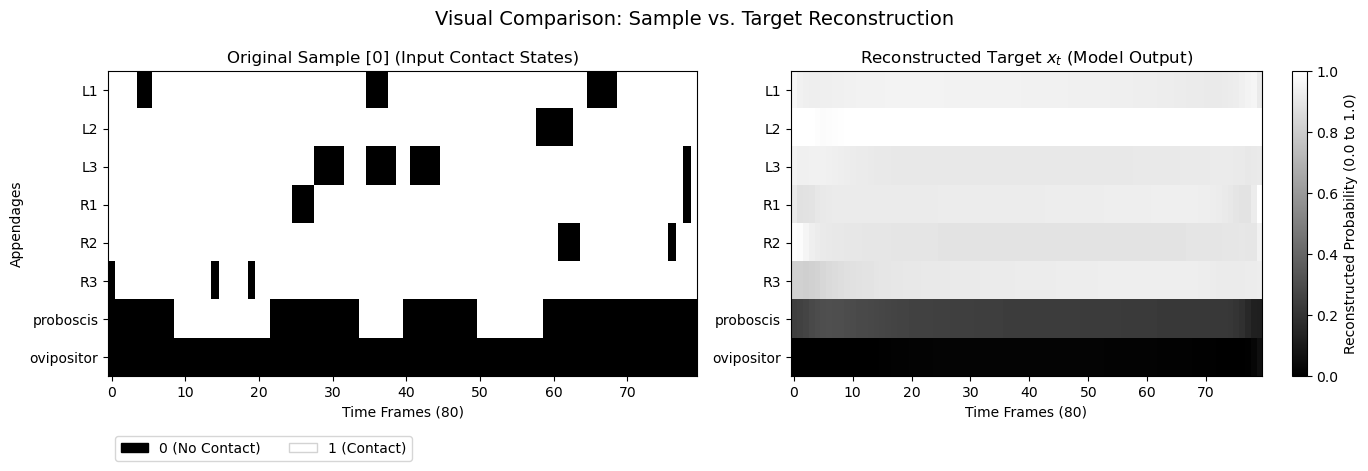
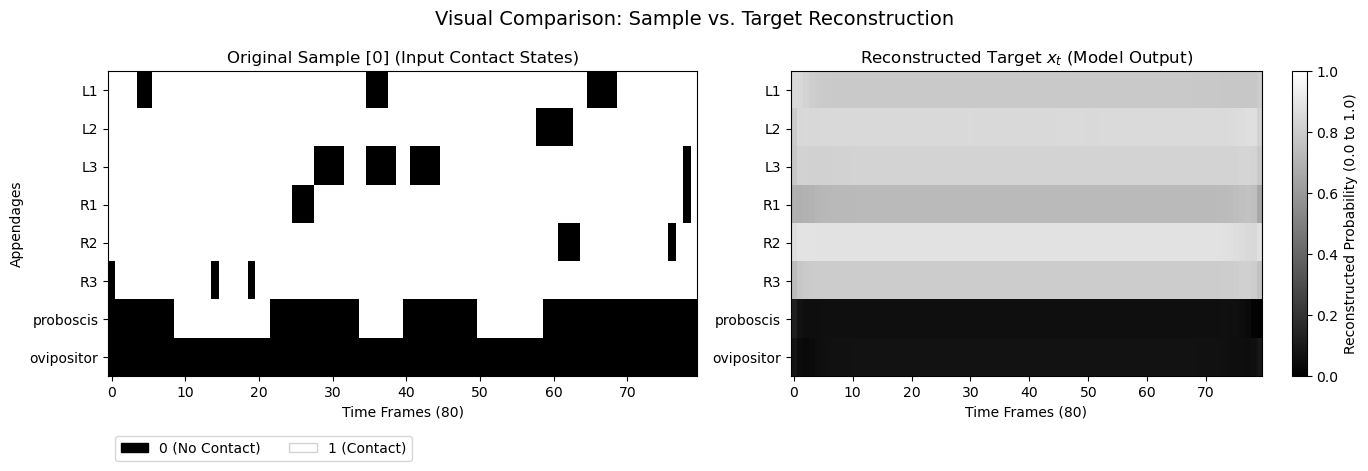
Added commented string and cleaned the structure of files- custom_dataloader.py dataset_generator.py preprocessin.py and Heatmap plotted (3 samples of data).

Changed region(s): [[0.5526, 0.1486, 0.9211, 0.535], [0.5526, 0.535, 0.9211, 0.7431]]

diff --git a/src/custom_dataloader.py b/src/custom_dataloader.py
@@ -1,3 +1,21 @@
+''' 
+This file intended to load the generated data (training and testing sets)
+formatted them inot tensors, 
+Initialize RNN_VAE and RNN_VAE.train() with the data generted 
+and plotted the input values with the reconstruction, 
+suitable parameters of the model is set in config.yaml
+
+This script intentionally bypasses the high-level `vame.train_model` wrapper. 
+The standard VAME dataloader attempts to dynamically group continuous data, which
+causing a tensor dimension crash.
+Instead, this script directly initializes the core RNN_VAE PyTorch architecture 
+and uses a custom DataLoader to feed it our specifically pre-formatted 
+3D tensor (Batch x 80 frames x 8 appendages).
+'''
+
+
+
+
 import torch
 import numpy as np
 from torch.utils.data import TensorDataset, DataLoader
@@ -6,17 +24,18 @@ import os
 import matplotlib.pyplot as plt
 import matplotlib.patches as mpatches
 
-
 from vame.model.rnn_model import RNN_VAE
 
 print(" Initializing Custom PyTorch Pipeline.")
 
+# Part 1 - setup
 
 device = torch.device("cuda" if torch.cuda.is_available() else "cpu")
 print(f"Hardware hooked up to: {device}")
 
-# Loading train and test tensors
+# Part 2 - Custom dataloader and Tensor conversion
 
+# Loading train and test tensors
 train_npy=np.load("/its/home/ap2037/dissertation/ssl_vame/vame_pipeline-Aug19-2026/data/train/train_seq.npy")
 test_npy=np.load("/its/home/ap2037/dissertation/ssl_vame/vame_pipeline-Aug19-2026/data/train/test_seq.npy")
 
@@ -26,16 +45,15 @@ train_tensor = torch.tensor(train_npy, dtype=torch.float32)
 test_tensor = torch.tensor(test_npy, dtype=torch.float32)
 
 # Creating TWO DataLoaders
-# We shuffle the training data so it learns general patterns
+# shuffle=True, the training data so it learns general patterns
 train_loader = DataLoader(TensorDataset(train_tensor), batch_size=32, shuffle=True)
 
-# We DO NOT shuffle the test data, because we are just evaluating it
+# shuffle=False, for the test data, because we are just evaluating it
 test_loader = DataLoader(TensorDataset(test_tensor), batch_size=32, shuffle=False)
 
+# Part 3 - Model configuration
 
-
-# 4. Load your VAME Configuration
-# Update this path to your exact project folder
+#Loading the VAME Configuration
 config_path = "/its/home/ap2037/dissertation/ssl_vame/vame_pipeline-Aug19-2026/config.yaml"
 
 yaml =YAML(typ='safe', pure=True)
@@ -44,8 +62,8 @@ with open(config_path, 'r') as file:
 
 
 print("\n Initializing VAME RNN_VAE ")
-# Initialize the Neural Network and push it to the GPU
-# unpacking the specific hyperparameters to feed the VAME architecture
+
+# unpacking the hyperparameters to feed the VAME architecture
 
 temporal_window = config['time_window'] *2 # VAME doubles this internally for its bidirectional setup
 zdims = config['zdims']
@@ -67,14 +85,15 @@ model = RNN_VAE(
     dropout_encoder, dropout_rec, dropout_pred, softplus
 ).to(device)
 
-# Training
+# Part 4 - Training
+
 # Optimizer (The mechanism that updates the model's memory)
 optimizer = torch.optim.Adam(model.parameters(), lr=config['learning_rate'])
 
 print("\nStarting the Training Loop")
 
-epochs = 100  #
-model.train() # 
+epochs = 10 # set up the value randomly
+model.train() 
 
 for epoch in range(epochs):
     total_loss = 0
@@ -82,16 +101,13 @@ for epoch in range(epochs):
     # The DataLoader automatically scoops the (32, 80, 8) batches
     for batch_idx, batch_data in enumerate(train_loader):
         
-        # 
         inputs = batch_data[0].to(device)
         
-        # 
         optimizer.zero_grad()
         
-        # 
+        # Forward pass
         reconstruction, prediction, latent_space, mu, logvar = model(inputs)
         
-        # 
         # standard Mean Squared Error (MSE) loss for this test
         loss = torch.nn.functional.mse_loss(reconstruction, inputs)
         
@@ -106,8 +122,9 @@ for epoch in range(epochs):
     avg_loss = total_loss / len(train_loader)
     print(f"Epoch [{epoch+1}/{epochs}] | Average Loss: {avg_loss:.4f}")
 
-print("\nSuccess! The custom PyTorch training loop has completed.")
+print("\n The custom PyTorch training loop has completed.")
 
+# Part 5- Testing and plotting
 
 print("\n Running Model Evaluation Test ")
 model.eval() # model to evaluation mode
@@ -123,62 +140,58 @@ with torch.no_grad():
         #Future error
         feature_errors = torch.mean((reconstruction - inputs) ** 2, dim=[0, 1]).cpu().numpy()
 
-        # Calculate test loss
+        # Calculating test loss
         test_loss = torch.nn.functional.mse_loss(reconstruction, inputs)
         print(f"Test Batch {batch_idx + 1} Loss: {test_loss.item():.4f}")
         
-        # HEATMAP GENERATION 
-        
-        # Input shape: [32, 80, 8]  sample shape becomes [80, 8] after indexing
-        # Taking the very first sample from this batch (Index 0)
-        original_sample = inputs[0].cpu().numpy() 
-        reconstructed_target = reconstruction[0].cpu().numpy()
 
-        # 
-        body_parts = ['L1', 'L2', 'L3', 'R1', 'R2', 'R3', 'proboscis', 'ovipositor']
-        fig, axes = plt.subplots(1, 2, figsize=(14, 5))
-
-        # Plotting Original Sample (Input Grid)
-        im0 = axes[0].imshow(original_sample.T, aspect='auto', cmap='gray', interpolation='nearest', vmin=0, vmax=1)
-        axes[0].set_title("Original Sample [0] (Input Contact States)")
-        axes[0].set_xlabel("Time Frames (80)")
-        axes[0].set_ylabel("Appendages")
-        axes[0].set_yticks(ticks=range(8))
-        axes[0].set_yticklabels(body_parts)
+        # --- HEATMAP GENERATION (Updated for Multiple Samples) ---
         
-        black_patch = mpatches.Patch(color='black', label='0 (No Contact)')
-        # Added a grey edge to the white patch so it's visible against the white background
-        white_patch = mpatches.Patch(facecolor='white', edgecolor='lightgray', label='1 (Contact)')
-        axes[0].legend(handles=[black_patch, white_patch], loc='lower left', bbox_to_anchor=(0, -0.3), ncol=2)
-    
-        #Plotting Reconstructed Target (Model Output)
-        im1 = axes[1].imshow(reconstructed_target.T, aspect='auto', cmap='gray', interpolation='nearest', vmin=0.0, vmax=1.0)
-        axes[1].set_title("Reconstructed Target $\t{x}_t$ (Model Output)")
-        axes[1].set_xlabel("Time Frames (80)")
-        axes[1].set_yticks(ticks=range(8))
-        axes[1].set_yticklabels(body_parts)
-        fig.colorbar(im1, ax=axes[1], label='Reconstructed Probability (0.0 to 1.0)')
-
-        plt.suptitle("Visual Comparison: Sample vs. Target Reconstruction", fontsize=14)
-        plt.tight_layout()
-        # Saving the figure to your outputs folder
-        output_path = "/its/home/ap2037/dissertation/ssl_vame/outputs/images/sample_vs_reconstruction.png"
-        plt.savefig(output_path, bbox_inches='tight')
-        plt.clf()
+        # We will extract and plot the first 3 samples from this test batch 
+        num_samples_to_plot = 3
         
-        print(f"Comparison heatmap successfully saved to: {output_path}")
-        # Plotting the feature errors
-        plt.figure(figsize=(10, 5))
-        plt.bar(body_parts, feature_errors, color='crimson', alpha=0.8)
-        plt.title("Reconstruction Error (MSE) per Appendage")
-        plt.xlabel("Appendages / Body Parts")
-        plt.ylabel("Mean Squared Error")
-        plt.grid(axis='y', linestyle='--', alpha=0.6)
+        for i in range(num_samples_to_plot):
+            
+            # Extract sample 'i' from the [32, 80, 8] batch tensor
+            original_sample = inputs[i].cpu().numpy() 
+            reconstructed_target = reconstruction[i].cpu().numpy()
 
-        plt.savefig("/its/home/ap2037/dissertation/ssl_vame/outputs/images/feature_reconstruction_error.png", bbox_inches='tight')
-        plt.clf()
-        print("Saved feature error bar chart.")
+            body_parts = ['L1', 'L2', 'L3', 'R1', 'R2', 'R3', 'proboscis', 'ovipositor']
+            fig, axes = plt.subplots(1, 2, figsize=(14, 5))
+
+            # Plotting Original Sample (Input Grid)
+            im0 = axes[0].imshow(original_sample.T, aspect='auto', cmap='gray', interpolation='nearest', vmin=0, vmax=1)
+            axes[0].set_title(f"Original Sample [{i}] (Input Contact States)")
+            axes[0].set_xlabel("Time Frames (80)")
+            axes[0].set_ylabel("Appendages")
+            axes[0].set_yticks(ticks=range(8))
+            axes[0].set_yticklabels(body_parts)
+            
+            black_patch = mpatches.Patch(color='black', label='0 (No Contact)')
+            white_patch = mpatches.Patch(facecolor='white', edgecolor='lightgray', label='1 (Contact)')
+            axes[0].legend(handles=[black_patch, white_patch], loc='lower left', bbox_to_anchor=(0, -0.3), ncol=2)
         
+            # Plotting Reconstructed Target (Model Output)
+            im1 = axes[1].imshow(reconstructed_target.T, aspect='auto', cmap='gray', interpolation='nearest', vmin=0.0, vmax=1.0)
+            
+            # Fixed the \t string bug by using a raw string (r"...") and \tilde
+            axes[1].set_title(r"Reconstructed Target $\tilde{x}_t$ (Model Output)")
+            axes[1].set_xlabel("Time Frames (80)")
+            axes[1].set_yticks(ticks=range(8))
+            axes[1].set_yticklabels(body_parts)
+            
+            # James's requested 0.0 to 1.0 probability colorbar
+            fig.colorbar(im1, ax=axes[1], label='Reconstructed Probability (0.0 to 1.0)')
+
+            plt.suptitle(f"Visual Comparison: Sample {i} vs. Target Reconstruction", fontsize=14)
+            plt.tight_layout()
+            
+            # Save each figure dynamically so they don't overwrite each other
+            output_path = f"/its/home/ap2037/dissertation/ssl_vame/outputs/images/sample_vs_reconstruction_{i}.png"
+            plt.savefig(output_path, bbox_inches='tight')
+            plt.clf()
+            
+            print(f"Comparison heatmap {i} successfully saved to: {output_path}")
         
         
         break

diff --git a/src/preprocessing.py b/src/preprocessing.py
@@ -1,7 +1,12 @@
-import pandas as pd 
-import scipy.ndimage as ndimage
-import numpy as np
+'''
+Applies a strict 0.95 threshold to convert continuous likelihoods into 
+binary contact states.
+Uses signal processing (Autocorrelogram) across all 6 legs to calculate the exact 
+temporal step duration of the insect.
+'''
 
+import pandas as pd 
+import numpy as np
 import matplotlib.pyplot as plt
 from scipy import signal 
 import math
@@ -20,21 +25,10 @@ print(data_a.shape)
 print(data_a.head())
 print(data_a.describe())
 
-#smoothing
 data_np=data_a.to_numpy()
-#data_sm=ndimage.gaussian_filter(data_np,sigma=2.0,mode='nearest', axes=0)
-
-#plotting between the data_np and data_sm (unsmoothed vs smoothed)
-
-#plt.plot(data_np[:100,0],label='unsmoothed',color='red',alpha=0.5)
-#plt.plot(data_sm[:100,0],label='smoothed',color='blue')
-#plt.legend()
-#plt.show()
-#plt.savefig('comparison_plot.png')
-#plt.clf()
 
 
-#threshold=0.9
+#threshold=0.95
 data_bi=np.where(data_np>0.95, 1,0)
 print(data_bi[:10, :])
 
@@ -46,7 +40,7 @@ np.save('/its/home/ap2037/ssl_vame/data/contact_data_binary.npy',data_bi)
 acg=[]
 for i in range(6):
     legs_d=data_bi[:,i]
-    #leg1=data_bi[:,0]
+    
     legs_cen=(legs_d-np.mean(legs_d))/np.std(legs_d) #standardization/ z-score normalization
     legs_corr=signal.correlate(legs_cen,legs_cen,mode='full',method='auto')
     #Normalizing/scaling the values of raw correlator
@@ -58,7 +52,7 @@ for i in range(6):
 acg_avg=np.mean(acg,axis=0)
 acg_avg=np.fft.ifftshift(acg_avg)
 N=len(legs_cen)
-lags=np.arange(-N+1,N)
+#lags=np.arange(-N+1,N)
 
 plt.plot(acg_avg)
 plt.title("Average_ACG of all the legs")
@@ -85,4 +79,5 @@ print('first_peak:', satellite_peak)
 
 # Window calculation based on the peak
 window_size=5*step_duration
+print('window size :', window_size)
 

diff --git a/src/dataset_generator.py b/src/dataset_generator.py
@@ -1,3 +1,13 @@
+'''
+VAME's default `create_trainset()` method automatically attempts to group and package 
+raw continuous data, causing the core PyTorch model to crash.
+
+This script acts as a custom data packager. It takes our 0.95-thresholded binary 
+contact data (0s and 1s) and uses a random sliding window technique to construct a strict 
+3D tensor (Batch x Time x Features) and splits into train and test sets. This allows us to feed the dataset directly into 
+our custom PyTorch DataLoader without dimensional mismatches.
+'''
+
 import numpy as np
 import random
 import os
